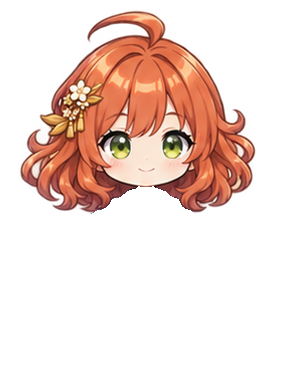
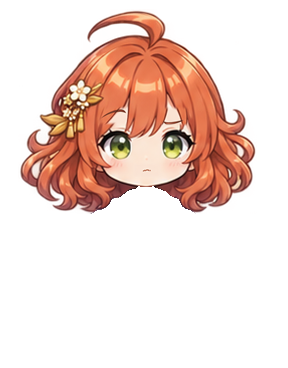
feat(M09): give the thinking pose an inquisitive expression

Changed region(s): [[0.5625, 0.269, 0.6562, 0.3587], [0.3438, 0.269, 0.4688, 0.3587], [0.5, 0.4484, 0.5312, 0.4783]]

diff --git a/src/HagoromoChan.Desktop/BundledReactionDrawing.cs b/src/HagoromoChan.Desktop/BundledReactionDrawing.cs
@@ -15,6 +15,7 @@ internal sealed class BundledReactionDrawing
 
     private readonly BitmapSource[] _cells;
     private readonly BitmapSource _thinkingHead;
+    private readonly BitmapSource _thinkingEyes;
     private readonly BitmapSource _thinkingHand;
     private readonly BitmapSource[] _unreadEyes = new BitmapSource[4];
     private readonly BitmapSource _farewellHand;
@@ -49,6 +50,7 @@ internal sealed class BundledReactionDrawing
 
         _cells[(int)Pose.Thinking] = LoadLayer("MascotThinkingBody.png");
         _thinkingHead = LoadLayer("MascotThinkingHead.png");
+        _thinkingEyes = LoadLayer("MascotThinkingEyes.png");
         _thinkingHand = LoadLayer("MascotThinkingHand.png");
         _cells[(int)Pose.Farewell] = LoadLayer("MascotFarewellBody.png");
         _farewellHand = LoadLayer("MascotFarewellHand.png");
@@ -191,6 +193,8 @@ internal sealed class BundledReactionDrawing
         var tilt = new RotateTransform(degrees, neck.X, neck.Y);
         context.PushTransform(tilt);
         context.DrawImage(_thinkingHead, bounds);
+        if (ramp >= 0.375)
+            context.DrawImage(_thinkingEyes, bounds);
         context.Pop();
 
         // Track only the chin's displacement. The cuff stays within its overlap with the sleeve.
